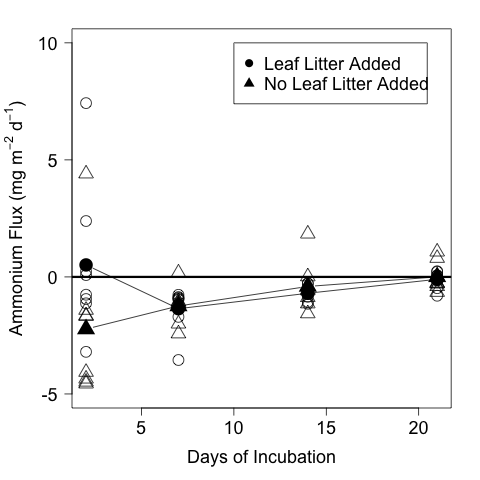
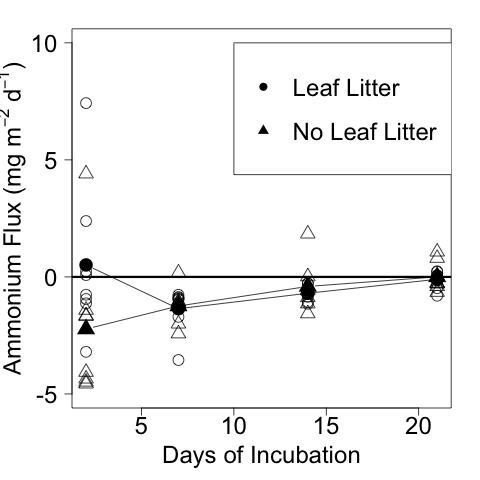
fixed legends on nutrient figs

diff --git a/lab_notebook/analysis/CPOM_Flux_Nutrient_Analysis.md b/lab_notebook/analysis/CPOM_Flux_Nutrient_Analysis.md
@@ -197,7 +197,7 @@ Flux calculations can be found in `CPOM_Flux_Nutrient_Flux_Calc.md` in the `anal
     means.NOx.NCPOM <- c(mean(nut$NOx[nut$CPOM == "0" & nut$days == 2]), mean(nut$NOx[nut$CPOM == "0" & nut$days == 7]), mean(nut$NOx[nut$CPOM == "0" & nut$days == 14]), mean(nut$NOx[nut$CPOM == "0" & nut$days == 21])) 
     points(unique(nut$days), means.NOx.CPOM, type = "b", pch = 16, cex = 2.5)   
     points(unique(nut$days), means.NOx.NCPOM, type = "b", pch = 17, col = 1, cex = 2.5)
-    legend(10, 200, c("Leaf Litter Added", "No Leaf Litter"), pch = c(16, 17), col = c(1, 1), cex = 1.5)
+    legend(10, 200, c("Leaf Litter ", "No Leaf Litter "), pch = c(16, 17), col = c(1, 1), cex = 1.5)
     dev.copy(png, "./output/plots/CPOM_Flux_NOx_flux.png")
     dev.off()
 
@@ -214,7 +214,7 @@ Flux calculations can be found in `CPOM_Flux_Nutrient_Flux_Calc.md` in the `anal
     means.NH3.NCPOM <- c(mean(nut$NH3[nut$CPOM == "0" & nut$days == 2]), mean(nut$NH3[nut$CPOM == "0" & nut$days == 7]), mean(nut$NH3[nut$CPOM == "0" & nut$days == 14]), mean(nut$NH3[nut$CPOM == "0" & nut$days == 21])) 
     points(unique(nut$days), means.NH3.CPOM, type = "b", pch = 16, cex = 2.5)   
     points(unique(nut$days), means.NH3.NCPOM, type = "b", pch = 17, cex = 2.5, col = 1)
-    legend(10, 10, c("Leaf Litter Added", "No Leaf Litter Added"), pch = c(16, 17), col = c(1, 1), cex = 1.5)
+    legend(10, 10, c("Leaf Litter ", "No Leaf Litter "), pch = c(16, 17), col = c(1, 1), cex = 1.5)
     dev.copy(png, "./output/plots/CPOM_Flux_NH3_flux.png")
     dev.off()
 
@@ -231,7 +231,7 @@ Flux calculations can be found in `CPOM_Flux_Nutrient_Flux_Calc.md` in the `anal
 means.P.NCPOM <- c(mean(nut$P[nut$CPOM == "0" & nut$days == 2]), mean(nut$P[nut$CPOM == "0" & nut$days == 7]), mean(nut$P[nut$CPOM == "0" & nut$days == 14]), mean(nut$P[nut$CPOM == "0" & nut$days == 21])) 
     points(unique(nut$days), means.P.CPOM, type = "b", pch = 16, cex = 2.5)   
     points(unique(nut$days), means.P.NCPOM, type = "b", pch = 17, cex = 2.5)   
-    legend(10, 1, c("Leaf Litter Added", "No Leaf Litter"), pch = c(16, 17), col = c(1, 1), cex = 1.5)
+    legend(10, 1, c("Leaf Litter ", "No Leaf Litter "), pch = c(16, 17), col = c(1, 1), cex = 1.5)
     dev.copy(png, "./output/plots/CPOM_Flux_P_flux.png")
     dev.off()
 
